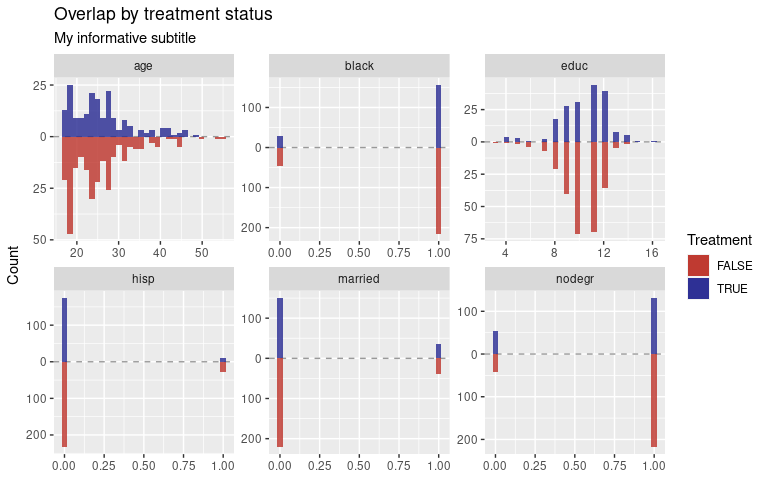
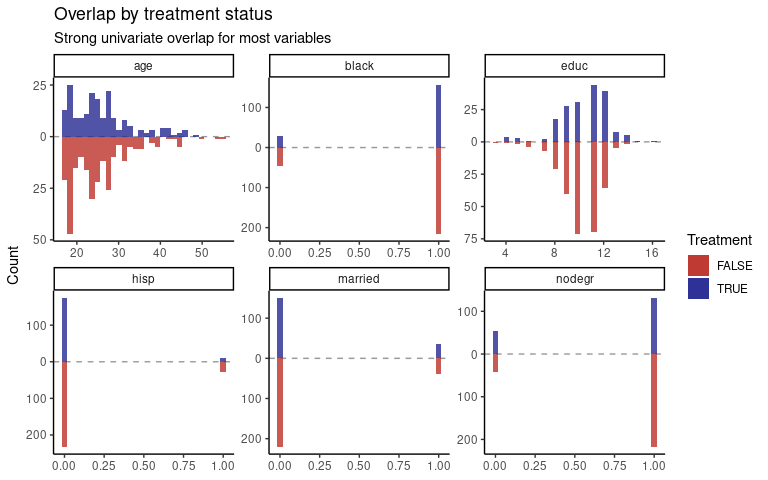
updated readme and description

diff --git a/README.md b/README.md
@@ -7,10 +7,10 @@
 
 [![R-CMD-check](https://github.com/joemarlo/plotBart/workflows/R-CMD-check/badge.svg)](https://github.com/joemarlo/plotBart/actions)
 [![license](https://img.shields.io/badge/license-MIT%20+%20file%20LICENSE-lightgrey.svg)](/LICENSE.md)
-[![Last-changedate](https://img.shields.io/badge/last%20change-2021--11--03-yellowgreen.svg)](/commits/master)
+[![Last-changedate](https://img.shields.io/badge/last%20change-2021--11--09-yellowgreen.svg)](/commits/master)
 <!-- badges: end -->
 
-plotBart is a supplemental plotting package to
+plotBart is a diagnostic and plotting package for
 [bartCause](https://github.com/vdorie/bartCause) and
 [thinkCausal](https://github.com/gperrett/thinkCausal_dev).
 
@@ -36,12 +36,14 @@ plot_common_support(.model = model_results)
 <img src="man/figures/README-example-1.png" width="75%" style="display: block; margin: auto;" />
 
 ``` r
-# plot overlap by variable
+# plot overlap by variable and manipulate ggplot object
 plot_overlap_vars(
   .data = lalonde,
   treatment = 'treat',
   confounders = confounders,
-) + labs(subtitle = 'My informative subtitle')
+) + 
+  labs(subtitle = 'Strong univariate overlap for most variables') +
+  theme_classic()
 ```
 
 <img src="man/figures/README-example-2.png" width="75%" style="display: block; margin: auto;" />
